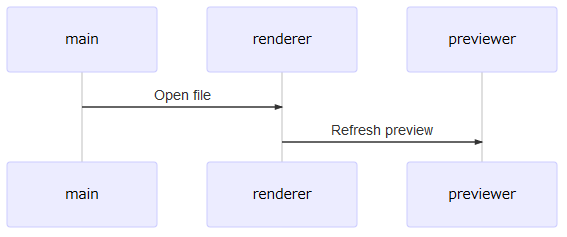
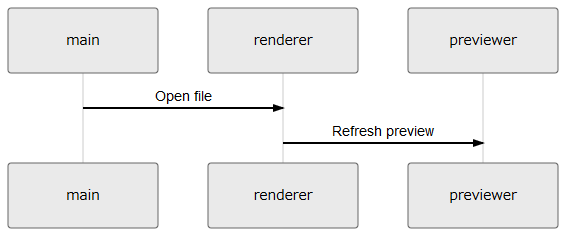
use theme option instead of cloneCssStyles.(close #49)

diff --git a/js/utils.js b/js/utils.js
@@ -9,7 +9,7 @@ const {sanitizeHtmlCustom} = require('./sanitize.js');
 
   mermaidAPI.initialize({
     startOnLoad: false,
-    cloneCssStyles: false
+    theme: null
   });
 
   /**
@@ -50,7 +50,7 @@ const {sanitizeHtmlCustom} = require('./sanitize.js');
         + ('00' + date.getMilliseconds()).slice(-3);
       let svg = mermaidAPI.render(svgId, code, undefined, mermaidWorkArea);
 
-      return  `<div class="mermaid">\n${svg}</div>\n`;
+      return  `<div class="mermaid">\n${svg.replace("<style></style>", "")}</div>\n`;
     },
     "uiflow": (code) => {
       let dot = uiflow.compile(code);
